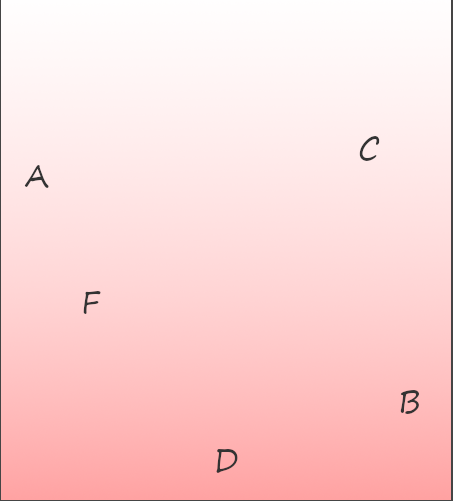
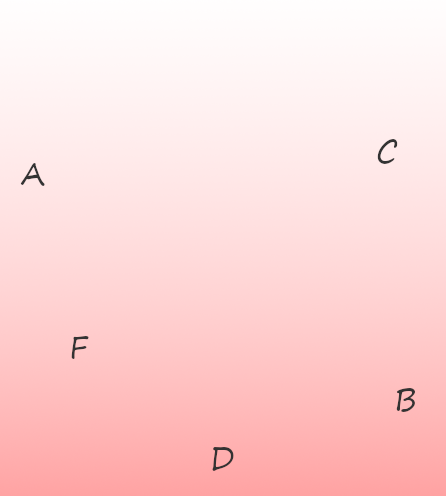
Updated background screens

diff --git a/About.xaml b/About.xaml
@@ -6,20 +6,24 @@
         xmlns:local="clr-namespace:Binder"
         mc:Ignorable="d"
         Title="About" Height="450" Width="800">
+    <Window.Background>
+        <ImageBrush ImageSource="Screen.PNG"/>
+    </Window.Background>
     <Grid>
         <Label Content="About This Game" HorizontalAlignment="Center" FontSize="30" Foreground="DarkSalmon"/>
         <TextBlock xml:space="preserve">
             
             
-            At Bill John's University, a legend has passed the ears of every student, professor, and staff member
+                At Bill John's University, a legend has passed the ears of every student, professor, and staff member
             who has set foot on the campus. The legend tells of a binder that gives its owner the ability to perfectly 
             recall any knowledge put into it. Recently, a student has discovered what may be the first piece of the 
             binder. After all, when you went from being a C student to an A student after picking up a clip ring you 
             needed for some Heritage of Peoples notecards, you realized that the legend may be true after all. Using a 
-            clue derived from the ring, you begin your search for the other two rings and the binder itself. But you
-            must hurry and be careful, because the Gamma Psi Zeta Bullfrogs have heard word of your discovery and they 
-            want it for themselves. Be on the lookout for their trademark aqua-orange scarf. In Legend of the Three 
-            Ring Binder, a time-based adventure game, you will search three buildings to find an item and a location 
+            clue derived from the ring, you begin your search for the other two rings and the binder itself. 
+            
+                But you must hurry and be careful, because the Gamma Psi Zeta Bullfrogs have heard word of your discovery
+            and they want it for themselves. Be on the lookout for their trademark aqua-orange scarf. In Legend of the
+            Three Ring Binder, a time-based adventure game, you will search three buildings to find an item and a location 
             reveal a piece of the binder. You have been given a riddle that cryptically explains where you can find 
             the piece. 
             But you're against the clock. You still need time to study, and Psi Zeta members are looking for the piece 

diff --git a/Instructions.xaml b/Instructions.xaml
@@ -6,6 +6,9 @@
         xmlns:local="clr-namespace:Binder.Environment"
         mc:Ignorable="d"
         Title="Instructions" Height="450" Width="800">
+    <Window.Background>
+        <ImageBrush ImageSource="Screen.PNG"/>
+    </Window.Background>
     <Canvas>
         <Label Content="Game Instructions" FontSize="30" Foreground="DarkSalmon" Width="250" Canvas.Left="275" Canvas.Top="10"/>
         <TextBlock xml:space="preserve">
@@ -17,6 +20,7 @@
             
             Roam the building in search of an object that will allow you to discover the next ring.
             Once you discover the correct object, a riddle will appear, telling you where to find the ring.
+            
             After solving the riddle, move to the correct location and use the correct object there.
             
             But watch out! 
